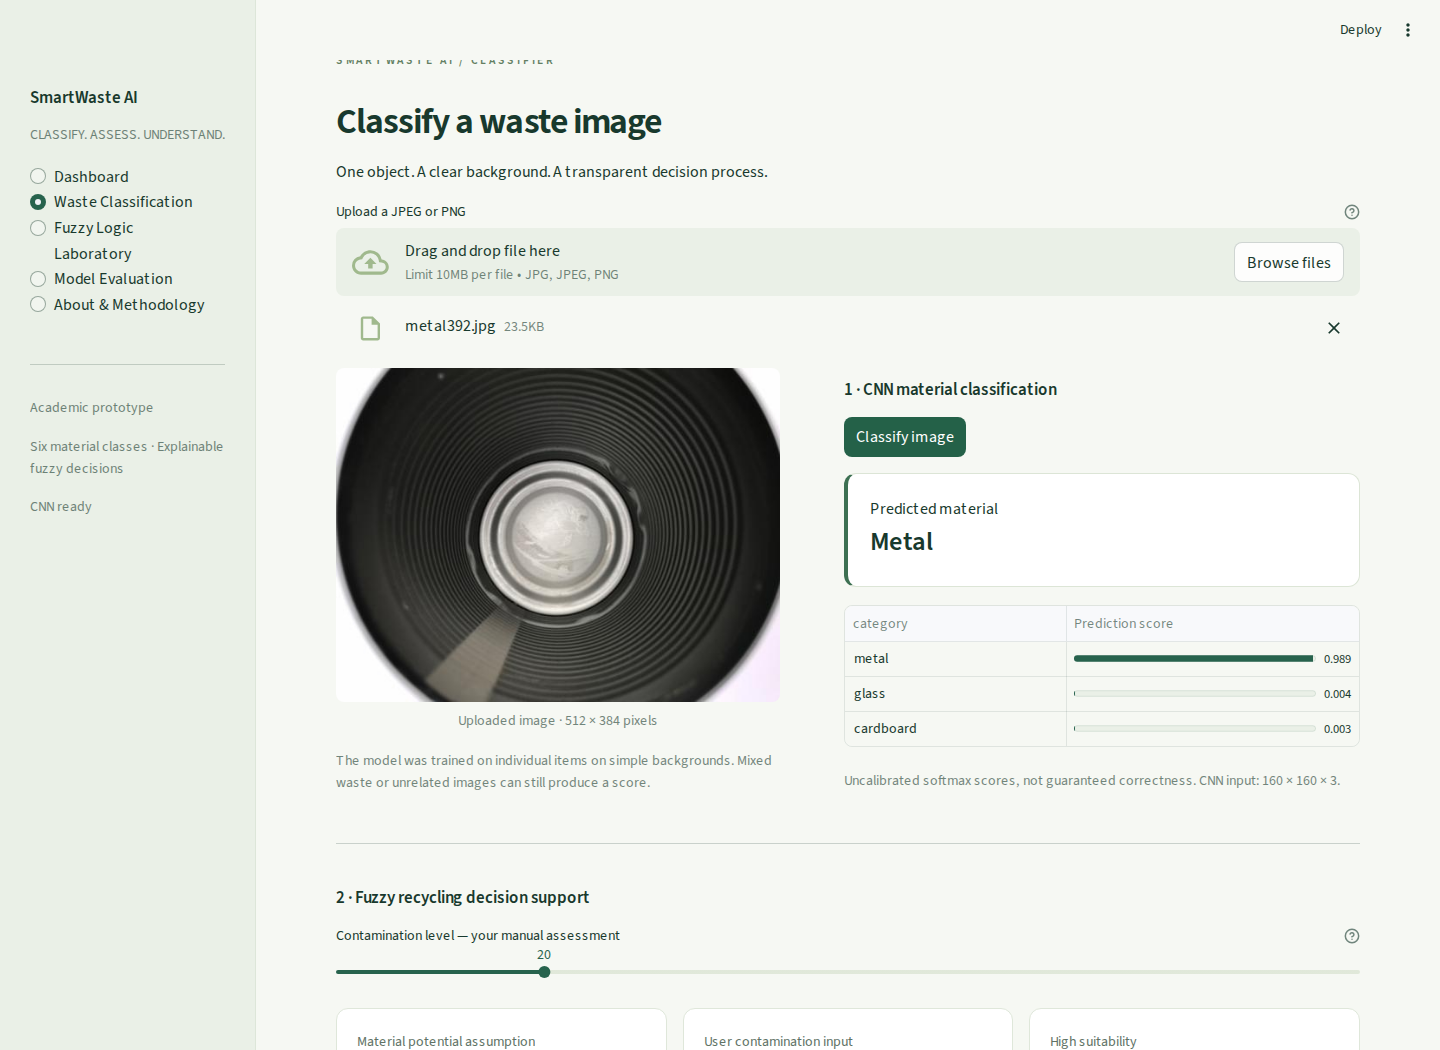
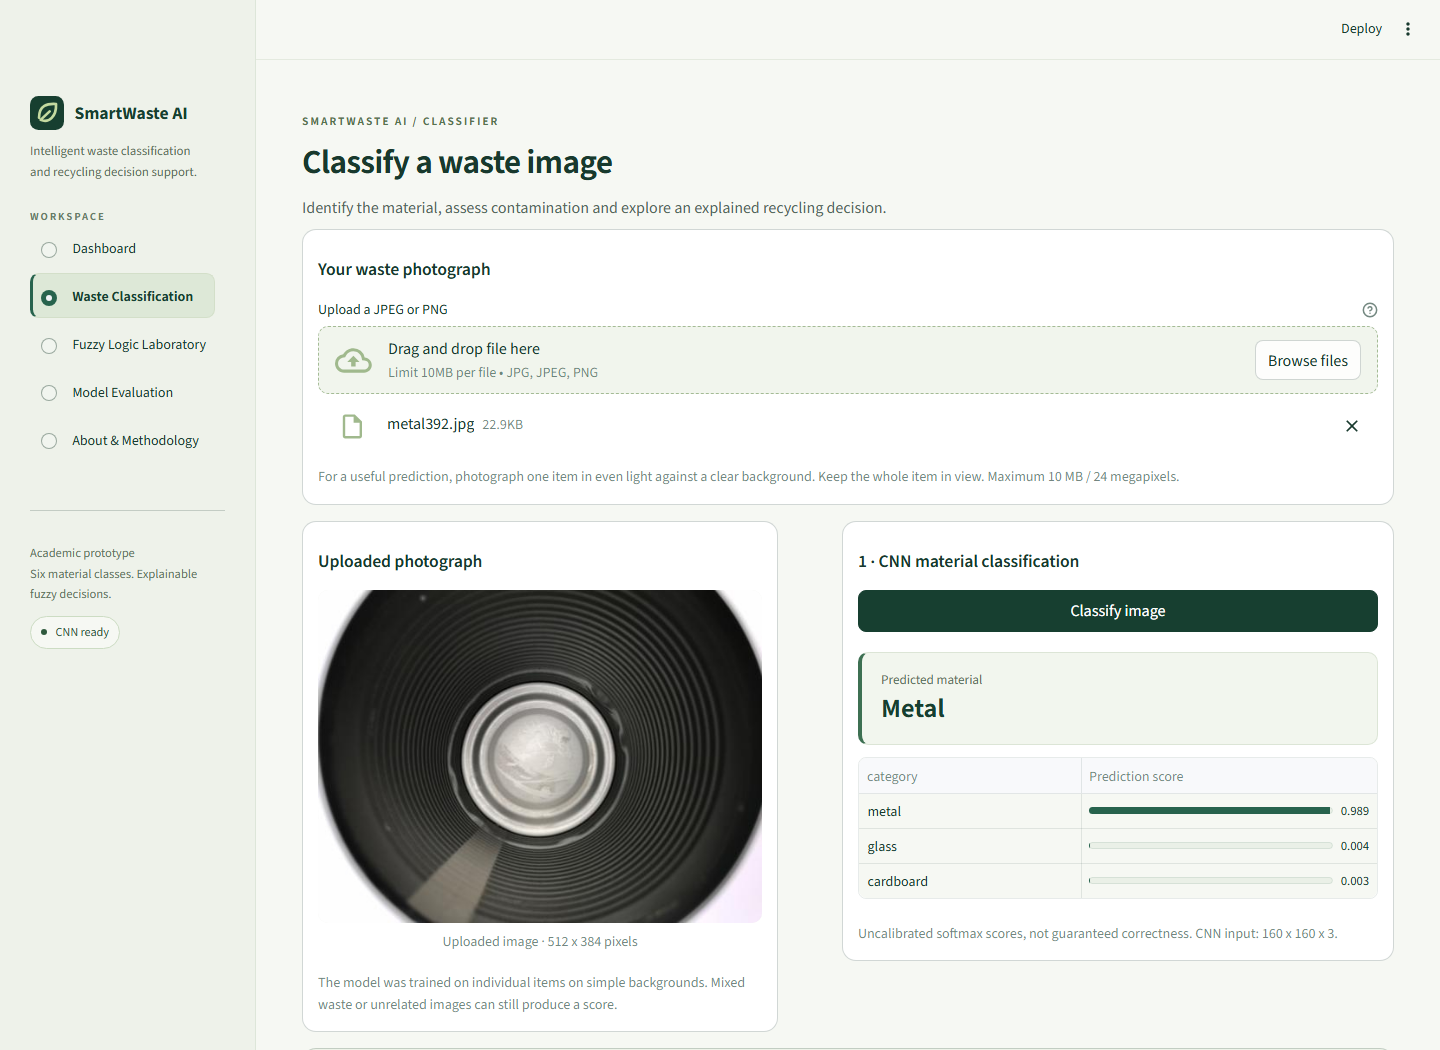
Save actual refined UI previews and completed responsive validation

diff --git a/docs/VALIDATION.md b/docs/VALIDATION.md
@@ -47,3 +47,15 @@ The final runtime pins Keras 3.15.1, matching the environment used for the suppl
 On 18 November 2026, the exact trained checkpoint was also restored to the existing Windows working folder as `models/smartwaste.keras`. Its 9,718,514-byte size and SHA-256 match the published training manifest. The Keras archive passed its ZIP integrity check; embedded metadata confirms Keras 3.15.1 and the saved checkpoint timestamp. Temporary transfer files were kept outside the main project history, and the transfer workflow and branch were removed after verified receipt.
 
 The remaining local environment limitation is package installation: the isolated virtual environment exists, but this session cannot resolve the package-index host, so TensorFlow, Streamlit, Plotly and Pytest cannot be installed here. The model and full application have already passed inference, UI and startup checks in GitHub CI. Run `setup.bat` and then `run.bat` from a normal Windows terminal with internet access to complete installation and launch locally.
+
+## UI refinement validation — 18 November 2026
+
+The clipped page eyebrow was caused by custom main-container top padding of 2.2rem, reduced to 1rem on small screens, overriding Streamlit's native 6rem toolbar clearance. Both overrides are removed. Shared page headers now use explicit line heights without fixed heights or hidden overflow. Sidebar branding, active navigation, cards, charts, the classifier empty state, image/result panels and the methodology layout are refined consistently.
+
+[Windows browser validation](https://github.com/prxns/SmartWaste-AI/actions/runs/44239270551) passed setup.bat, dependency checks, the complete suite and the real run.bat browser flow. Pytest reported **34 passed, 2 xfailed and 6 subtests passed**. [Linux validation](https://github.com/prxns/SmartWaste-AI/actions/runs/44239270812) also passed the suite, checkpoint restoration and Streamlit startup.
+
+All five pages were tested at **1920×1080, 1366×768 and 1280×720**, with device scale 1 and normal browser zoom. Fifteen page/viewport combinations and three classified-result layouts passed checks for horizontal overflow, toolbar/header clearance and sidebar clipping. Seven additional overview checks passed. Actual screenshots are in `assets/screenshots/`; the full responsive captures are retained with the Windows run.
+
+The browser uploaded a real held-out image, used the shipped CNN, changed contamination to 100, confirmed the displayed value and Low suitability, and downloaded a CSV containing the matching session record. Each keyboard change waits for Streamlit's rendered update. The existing unit suite also verifies laboratory interaction and session-history clearing.
+
+Checksums confirm that the trained model, its manifest and metrics, model loader module, fuzzy engine, configuration, existing expected-failure tests, requirements and Windows launch scripts are unchanged. The two prescribed fuzzy monotonicity conflicts remain documented. No retraining, runtime dependency, database, desktop packaging or alternate frontend was introduced.
